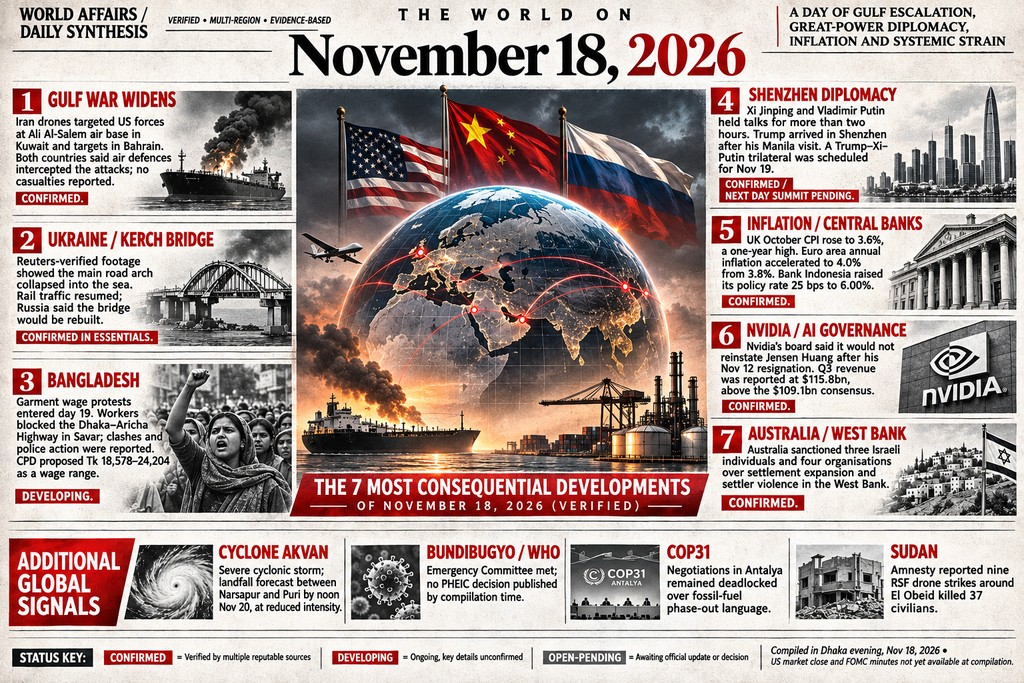
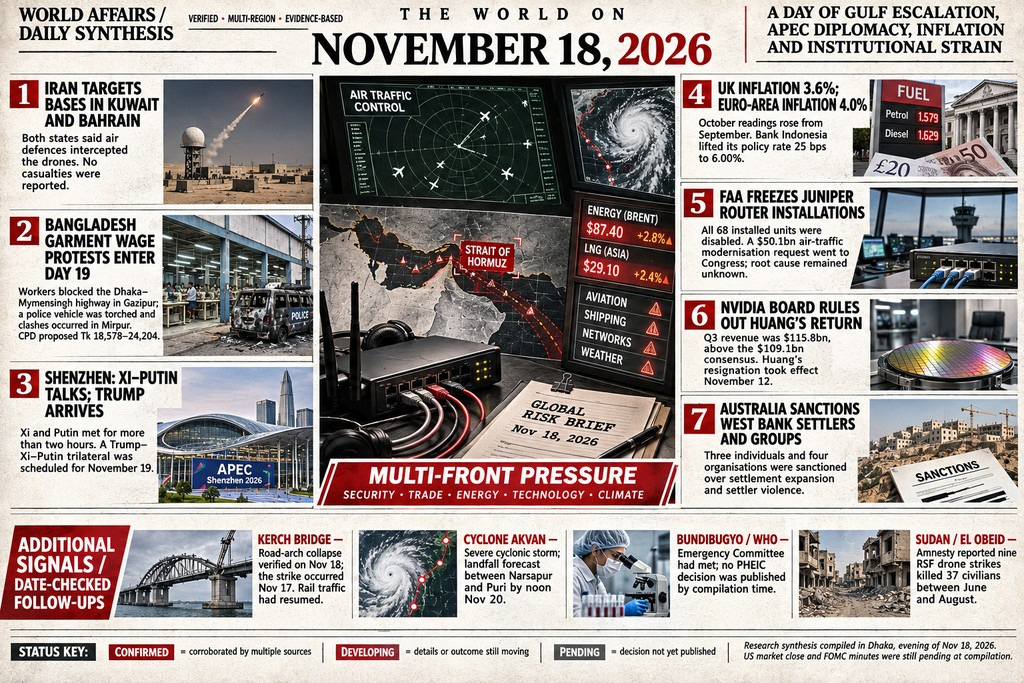
Swap entry image to the Multi-Front Pressure poster at DARWIN's order; resized only to 1024x683 JPEG

diff --git a/main.py b/main.py
@@ -3,12 +3,13 @@
 
 The repository holds the entry image as entry.jpg: DARWIN's briefing
 poster summing up the world's news of Wednesday 18 November 2026 in one
-image, seven flashpoints with an also-moving sidebar and a day watchlist.
+image, seven flashpoints with a multi-front pressure board at the centre
+and a date-checked follow-ups strip.
 This program copies those bytes, unchanged, to the output path, so every
 run writes exactly the same file.
 
 The output is a whole JPEG (told apart by its first bytes; the output
-name stays entry.png either way), 1024 by 683 pixels, 359,353 bytes,
+name stays entry.png either way), 1024 by 683 pixels, 347,493 bytes,
 inside the gate limits of at most 1 MiB and at most 1024 by 1024 pixels.
 
 Python 3.13, standard library only, no network.

diff --git a/README.md b/README.md
@@ -4,7 +4,7 @@
 [![rank](https://make.fun/badge/news-image-20261118/theglitcharchitect/news-image-20261118/rank.svg)](https://make.fun/bounty/news-image-20261118/leaderboard?utm_source=github&utm_medium=readme&utm_campaign=news-image-20261118)
 [![reward](https://make.fun/badge/news-image-20261118/theglitcharchitect/news-image-20261118/reward.svg)](https://make.fun/bounty/news-image-20261118?utm_source=github&utm_medium=readme&utm_campaign=news-image-20261118)
 
-One image that sums up Wednesday 18 November 2026's world news: a briefing poster of the day's seven most consequential developments as the poster presents them (the Russia-Ukraine grind under record drone and missile strikes; Iran's endgame, with US strikes, a near-total internet blackout and a leadership in hiding; US midterm aftershocks, with Congress certifying results and Trump's approval at 36 percent; the AI trade unwinding, Nvidia down pre-earnings, a hawkish Fed hold, gold through $4,700 and oil sliding; Europe's defence surge toward 3.5 percent of GDP by 2028; Bangladesh's dengue emergency past 90,000 cases; and a quantum-internet milestone, entanglement distributed over a 1,200 km satellite link), plus an also-moving sidebar (China-Taiwan coast-guard shadowing near Kinmen, famine declared in Sudan's El Fasher, COP31's finance text still blocked, crypto ETF outflows at a record) and a day watchlist (the Fed minutes and US CPI, the Shenzhen trilateral communiqué, Nvidia earnings after the bell, and the WHO dengue situation report). `main.py` (Python 3.13, standard library only, no network) copies the poster's JPEG bytes, held in the repository as `entry.jpg` (1024 by 683 pixels, 359,353 bytes), to `/output/entry.png`, byte-identical on every run.
+One image that sums up Wednesday 18 November 2026's world news: a briefing poster of the day's seven most consequential developments as the poster presents them (Iran targets bases in Kuwait and Bahrain, both states saying their air defences intercepted the drones and no casualties were reported; Bangladesh garment wage protests entering day 19, with the Dhaka-Mymensingh highway blocked in Gazipur, a police vehicle torched and clashes in Mirpur; Shenzhen, where Xi and Putin met for more than two hours and a Trump-Xi-Putin trilateral was scheduled for November 19; UK inflation at 3.6 percent and euro-area inflation at 4.0 percent, with Bank Indonesia lifting its policy rate 25 basis points to 6.00 percent; the FAA freezing Juniper router installations, all 68 installed units disabled and a $50.1bn air-traffic modernisation request before Congress; Nvidia's board ruling out Huang's return, Q3 revenue of $115.8bn above the $109.1bn consensus and his resignation effective November 12; and Australia sanctioning three individuals and four organisations over West Bank settlement expansion and settler violence), around a centre board on the Strait of Hormuz (Brent $87.40, up 2.8 percent; Asian LNG $29.10, up 2.4 percent), plus a date-checked follow-ups strip (the Kerch Bridge road-arch collapse verified on November 18 from the November 17 strike, rail traffic resumed; Cyclone Akvan's landfall due by noon on November 20; the WHO Bundibugyo Emergency Committee having met with no PHEIC decision published by compilation time; and Amnesty's report of nine RSF drone strikes killing 37 civilians around El Obeid between June and August). `main.py` (Python 3.13, standard library only, no network) copies the poster's JPEG bytes, held in the repository as `entry.jpg` (1024 by 683 pixels, 347,493 bytes), to `/output/entry.png`, byte-identical on every run.
 
 ## Run it
 
